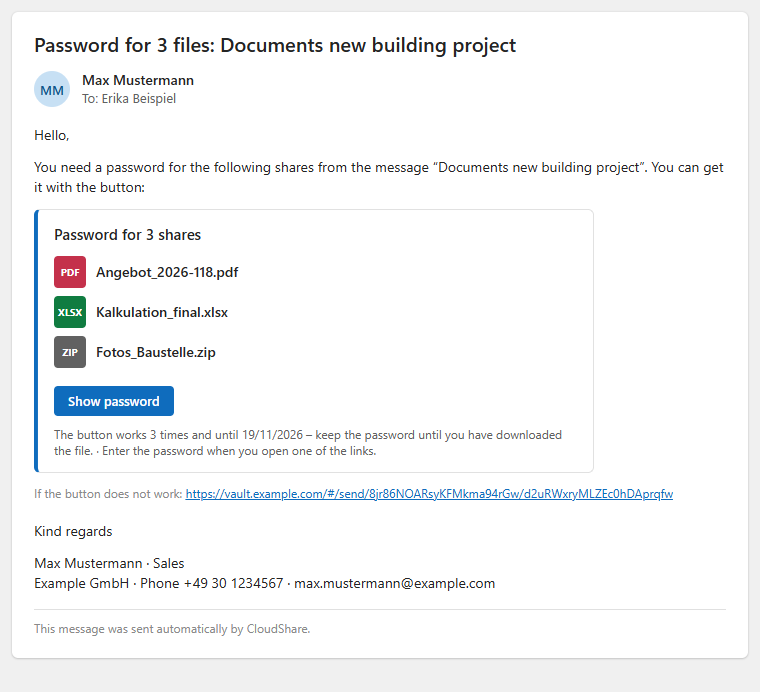
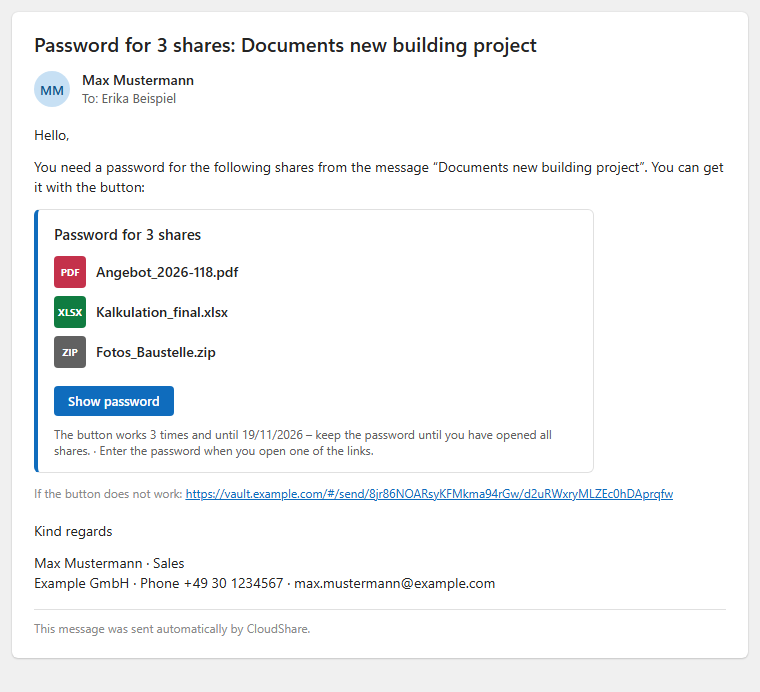
Password mail and card wording; white button text after a click
- Password mail subject counts "Freigaben"/"shares" instead of files; the
  button note fits every kind of share and says "Button".
- Link card names the tracking ID as "Vorgang {id}" / "Case {id}".
- Code mail step 1 says that "Confirm and open" is still to be clicked on the
  page (the link deliberately confirms nothing by itself); help and README too.
- Button labels in the card and in every CloudShare mail get their own white
  span, so Outlook does not turn them purple once visited.

Changed region(s): [[0.2118, 0.0303, 0.7263, 0.091], [0.0605, 0.6373, 0.4842, 0.6676], [0.6355, 0.6069, 0.7566, 0.6373]]

diff --git a/docs/mockups/password-mail.html b/docs/mockups/password-mail.html
@@ -9,10 +9,10 @@
 </head>
 <body>
 <div class="reader">
-  <div class="subject">Password for 3 files: Documents new building project</div>
+  <div class="subject">Password for 3 shares: Documents new building project</div>
   <div class="from"><div class="avatar">MM</div><div class="who"><div class="name">Max Mustermann</div><div class="to">To: Erika Beispiel</div></div></div>
   <div class="body">
-<p style="margin:0 0 12px;font-family:'Segoe UI',-apple-system,Helvetica,Arial,sans-serif;font-size:14px;line-height:20px;color:#242424;">Hello,</p><p style="margin:0 0 12px;font-family:'Segoe UI',-apple-system,Helvetica,Arial,sans-serif;font-size:14px;line-height:20px;color:#242424;">You need a password for the following shares from the message “Documents new building project”. You can get it with the button:</p><table role="presentation" width="560" cellpadding="0" cellspacing="0" border="0" style="width:100%;max-width:560px;border-collapse:separate;margin:4px 0 12px;"><tr><td style="background:#ffffff;border:1px solid #e0e0e0;border-left:4px solid #0f6cbd;border-radius:6px;padding:14px 16px;font-family:'Segoe UI',-apple-system,Helvetica,Arial,sans-serif;color:#242424;"><div style="font-size:15px;line-height:20px;font-weight:600;color:#242424;margin:0 0 8px;">Password for 3 shares</div><table role="presentation" cellpadding="0" cellspacing="0" border="0" style="border-collapse:collapse;"><tr><td width="32" valign="middle" style="width:32px;padding:4px 10px 4px 0;"><div style="width:32px;height:32px;line-height:32px;background:#c4314b;border-radius:4px;color:#ffffff;font-family:'Segoe UI',-apple-system,Helvetica,Arial,sans-serif;font-size:10px;font-weight:700;text-align:center;">PDF</div></td><td valign="middle" style="padding:4px 0;font-family:'Segoe UI',-apple-system,Helvetica,Arial,sans-serif;font-size:14px;line-height:20px;font-weight:600;color:#242424;word-break:break-all;">Angebot_2026-118.pdf</td></tr><tr><td width="32" valign="middle" style="width:32px;padding:4px 10px 4px 0;"><div style="width:32px;height:32px;line-height:32px;background:#107c41;border-radius:4px;color:#ffffff;font-family:'Segoe UI',-apple-system,Helvetica,Arial,sans-serif;font-size:10px;font-weight:700;text-align:center;">XLSX</div></td><td valign="middle" style="padding:4px 0;font-family:'Segoe UI',-apple-system,Helvetica,Arial,sans-serif;font-size:14px;line-height:20px;font-weight:600;color:#242424;word-break:break-all;">Kalkulation_final.xlsx</td></tr><tr><td width="32" valign="middle" style="width:32px;padding:4px 10px 4px 0;"><div style="width:32px;height:32px;line-height:32px;background:#616161;border-radius:4px;color:#ffffff;font-family:'Segoe UI',-apple-system,Helvetica,Arial,sans-serif;font-size:10px;font-weight:700;text-align:center;">ZIP</div></td><td valign="middle" style="padding:4px 0;font-family:'Segoe UI',-apple-system,Helvetica,Arial,sans-serif;font-size:14px;line-height:20px;font-weight:600;color:#242424;word-break:break-all;">Fotos_Baustelle.zip</td></tr></table><div style="margin:14px 0 0;"><table role="presentation" cellpadding="0" cellspacing="0" border="0" style="border-collapse:separate;"><tr><td bgcolor="#0f6cbd" style="background:#0f6cbd;border-radius:4px;mso-padding-alt:6px 14px;"><a href="#" style="display:inline-block;color:#ffffff;font-family:'Segoe UI',-apple-system,Helvetica,Arial,sans-serif;font-size:13px;font-weight:600;line-height:18px;padding:6px 14px;text-decoration:none;white-space:nowrap;">Show password</a></td></tr></table></div><div style="font-size:12px;line-height:16px;color:#616161;margin:10px 0 0;">The button works 3 times and until 19/11/2026 – keep the password until you have downloaded the file. · Enter the password when you open one of the links.</div></td></tr></table><p style="margin:0 0 8px;font-family:'Segoe UI',-apple-system,Helvetica,Arial,sans-serif;font-size:12px;line-height:16px;color:#8a8a8a;">If the button does not work: <a href="#" style="color:#0f6cbd;">https://vault.example.com/#/send/8jr86NOARsyKFMkma94rGw/d2uRWxryMLZEc0hDAprqfw</a></p><div style="margin:20px 0 0;"><p style="margin:0 0 12px;font-family:'Segoe UI',-apple-system,Helvetica,Arial,sans-serif;font-size:14px;line-height:20px;color:#242424;">Kind regards</p><p style="margin:0 0 12px;font-family:'Segoe UI',-apple-system,Helvetica,Arial,sans-serif;font-size:14px;line-height:20px;color:#242424;">Max Mustermann · Sales<br>Example GmbH · Phone +49 30 1234567 · max.mustermann@example.com</p></div><p style="margin:16px 0 0;padding:10px 0 0;border-top:1px solid #e0e0e0;font-family:'Segoe UI',-apple-system,Helvetica,Arial,sans-serif;font-size:12px;line-height:16px;color:#8a8a8a;">This message was sent automatically by CloudShare.</p>
+<p style="margin:0 0 12px;font-family:'Segoe UI',-apple-system,Helvetica,Arial,sans-serif;font-size:14px;line-height:20px;color:#242424;">Hello,</p><p style="margin:0 0 12px;font-family:'Segoe UI',-apple-system,Helvetica,Arial,sans-serif;font-size:14px;line-height:20px;color:#242424;">You need a password for the following shares from the message “Documents new building project”. You can get it with the button:</p><table role="presentation" width="560" cellpadding="0" cellspacing="0" border="0" style="width:100%;max-width:560px;border-collapse:separate;margin:4px 0 12px;"><tr><td style="background:#ffffff;border:1px solid #e0e0e0;border-left:4px solid #0f6cbd;border-radius:6px;padding:14px 16px;font-family:'Segoe UI',-apple-system,Helvetica,Arial,sans-serif;color:#242424;"><div style="font-size:15px;line-height:20px;font-weight:600;color:#242424;margin:0 0 8px;">Password for 3 shares</div><table role="presentation" cellpadding="0" cellspacing="0" border="0" style="border-collapse:collapse;"><tr><td width="32" valign="middle" style="width:32px;padding:4px 10px 4px 0;"><div style="width:32px;height:32px;line-height:32px;background:#c4314b;border-radius:4px;color:#ffffff;font-family:'Segoe UI',-apple-system,Helvetica,Arial,sans-serif;font-size:10px;font-weight:700;text-align:center;">PDF</div></td><td valign="middle" style="padding:4px 0;font-family:'Segoe UI',-apple-system,Helvetica,Arial,sans-serif;font-size:14px;line-height:20px;font-weight:600;color:#242424;word-break:break-all;">Angebot_2026-118.pdf</td></tr><tr><td width="32" valign="middle" style="width:32px;padding:4px 10px 4px 0;"><div style="width:32px;height:32px;line-height:32px;background:#107c41;border-radius:4px;color:#ffffff;font-family:'Segoe UI',-apple-system,Helvetica,Arial,sans-serif;font-size:10px;font-weight:700;text-align:center;">XLSX</div></td><td valign="middle" style="padding:4px 0;font-family:'Segoe UI',-apple-system,Helvetica,Arial,sans-serif;font-size:14px;line-height:20px;font-weight:600;color:#242424;word-break:break-all;">Kalkulation_final.xlsx</td></tr><tr><td width="32" valign="middle" style="width:32px;padding:4px 10px 4px 0;"><div style="width:32px;height:32px;line-height:32px;background:#616161;border-radius:4px;color:#ffffff;font-family:'Segoe UI',-apple-system,Helvetica,Arial,sans-serif;font-size:10px;font-weight:700;text-align:center;">ZIP</div></td><td valign="middle" style="padding:4px 0;font-family:'Segoe UI',-apple-system,Helvetica,Arial,sans-serif;font-size:14px;line-height:20px;font-weight:600;color:#242424;word-break:break-all;">Fotos_Baustelle.zip</td></tr></table><div style="margin:14px 0 0;"><table role="presentation" cellpadding="0" cellspacing="0" border="0" style="border-collapse:separate;"><tr><td bgcolor="#0f6cbd" style="background:#0f6cbd;border-radius:4px;mso-padding-alt:6px 14px;"><a href="#" style="display:inline-block;color:#ffffff;font-family:'Segoe UI',-apple-system,Helvetica,Arial,sans-serif;font-size:13px;font-weight:600;line-height:18px;padding:6px 14px;text-decoration:none;white-space:nowrap;">Show password</a></td></tr></table></div><div style="font-size:12px;line-height:16px;color:#616161;margin:10px 0 0;">The button works 3 times and until 19/11/2026 – keep the password until you have opened all shares. · Enter the password when you open one of the links.</div></td></tr></table><p style="margin:0 0 8px;font-family:'Segoe UI',-apple-system,Helvetica,Arial,sans-serif;font-size:12px;line-height:16px;color:#8a8a8a;">If the button does not work: <a href="#" style="color:#0f6cbd;">https://vault.example.com/#/send/8jr86NOARsyKFMkma94rGw/d2uRWxryMLZEc0hDAprqfw</a></p><div style="margin:20px 0 0;"><p style="margin:0 0 12px;font-family:'Segoe UI',-apple-system,Helvetica,Arial,sans-serif;font-size:14px;line-height:20px;color:#242424;">Kind regards</p><p style="margin:0 0 12px;font-family:'Segoe UI',-apple-system,Helvetica,Arial,sans-serif;font-size:14px;line-height:20px;color:#242424;">Max Mustermann · Sales<br>Example GmbH · Phone +49 30 1234567 · max.mustermann@example.com</p></div><p style="margin:16px 0 0;padding:10px 0 0;border-top:1px solid #e0e0e0;font-family:'Segoe UI',-apple-system,Helvetica,Arial,sans-serif;font-size:12px;line-height:16px;color:#8a8a8a;">This message was sent automatically by CloudShare.</p>
   </div>
 </div>
 </body>

diff --git a/server/test/passwordMail.test.ts b/server/test/passwordMail.test.ts
@@ -100,9 +100,9 @@ describe("common layout of all automatic mails", () => {
 describe("password mail – limits and the mail after the confirmation", () => {
   it("says in a sentence how often and how long the button works", () => {
     const html = passwordMailHtml({ ...base, fileNames: ["a.pdf"], maxAccessCount: 3, expiresOn: "25.11.2026" });
-    expect(html).toContain("Der Knopf funktioniert 3-mal und bis 25.11.2026 – notieren Sie sich das Kennwort");
+    expect(html).toContain("Der Button funktioniert 3-mal und bis 25.11.2026 – notieren Sie sich das Kennwort, bis Sie alle Freigaben geöffnet haben.");
     expect(passwordMailHtml({ ...base, fileNames: ["a.pdf"], maxAccessCount: 1, expiresOn: "25.11.2026" }))
-      .toContain("Der Knopf funktioniert nur einmal und bis 25.11.2026");
+      .toContain("Der Button funktioniert nur einmal und bis 25.11.2026");
   });
 
   it("right after the confirmation: two numbered steps in the card, each with its button and plain link", () => {
@@ -122,7 +122,7 @@ describe("password mail – limits and the mail after the confirmation", () => {
     expect(html.match(/https:\/\/vault\.example\.test\/#\/send\/abc\/key/g)).toHaveLength(3); // href of button, href and text of the link
     expect(html.match(/https:\/\/cloudshare\.example\.test\/r\/s\/tok/g)).toHaveLength(3);
     expect(html.indexOf("https://cloudshare.example.test/r/s/tok")).toBeGreaterThan(download);
-    expect(html).toContain(">Zum Download</a>");
+    expect(html).toContain(">Zum Download</span></a>");
     expect(html).toContain("Kennwort-Link: 3-mal, bis 25.11.2026 · Vorgang 20261118-1932-DHLB");
     expect(html).not.toContain("Falls der Button nicht funktioniert");
     expect(html).not.toContain("<ol");

diff --git a/server/src/mailLayout.ts b/server/src/mailLayout.ts
@@ -122,7 +122,7 @@ function buttonLink(button: { label: string; url: string }): string {
     `<table role="presentation" cellpadding="0" cellspacing="0" border="0" style="border-collapse:separate;">` +
     `<tr><td bgcolor="${BRAND}" style="background:${BRAND};border-radius:4px;mso-padding-alt:6px 14px;">` +
     `<a href="${escapeHtml(button.url)}" style="display:inline-block;color:#ffffff;font-family:${FONT};font-size:13px;` +
-    `font-weight:600;line-height:18px;padding:6px 14px;text-decoration:none;white-space:nowrap;">${escapeHtml(button.label)}</a>` +
+    `font-weight:600;line-height:18px;padding:6px 14px;text-decoration:none;white-space:nowrap;"><span style="color:#ffffff;">${escapeHtml(button.label)}</span></a>` +
     `</td></tr></table>`
   );
 }

diff --git a/addin/e2e/taskpane.e2e.ts b/addin/e2e/taskpane.e2e.ts
@@ -1471,7 +1471,7 @@ test("Zustellnachweis: only for files; ticked, it goes with the upload and the c
   expect(body).toMatchObject({ proof: true, client: { host: expect.any(String) } });
   const card = (await officeLog(page)).inserted[0].data as string;
   expect(card).toContain("https://cloudshare.example.com/r/s/u"); // the gateway, not the Nextcloud link
-  expect(card).toContain("Zustellnachweis 20261117-1146-7Q2F");
+  expect(card).toContain("Vorgang 20261117-1146-7Q2F");
   // The password comes after the confirmation – no "separate message" with the link mail.
   expect(card).toContain("Das Kennwort erhalten Sie, nachdem Sie Ihre E-Mail-Adresse bestätigt haben.");
   expect(card).not.toContain("separaten Nachricht");

diff --git a/addin/src/taskpane/mailCard.ts b/addin/src/taskpane/mailCard.ts
@@ -55,7 +55,7 @@ function button(url: string, text: string): string {
     `<table role="presentation" cellpadding="0" cellspacing="0" border="0" style="border-collapse:separate;">` +
     `<tr><td bgcolor="${BRAND}" style="background:${BRAND};border-radius:4px;mso-padding-alt:6px 14px;">` +
     `<a href="${escapeHtml(url)}" style="display:inline-block;color:#ffffff;font-family:${FONT};font-size:13px;` +
-    `font-weight:600;line-height:18px;padding:6px 14px;text-decoration:none;white-space:nowrap;">${escapeHtml(text)}</a>` +
+    `font-weight:600;line-height:18px;padding:6px 14px;text-decoration:none;white-space:nowrap;"><span style="color:#ffffff;">${escapeHtml(text)}</span></a>` +
     `</td></tr></table>`
   );
 }

diff --git a/server/test/jobs.test.ts b/server/test/jobs.test.ts
@@ -108,7 +108,7 @@ describe("password jobs", () => {
 
     expect(sendMail).toHaveBeenCalledOnce();
     const [, , subject, html] = sendMail.mock.calls[0];
-    expect(subject).toBe("Kennwort für 2 Dateien: Unterlagen");
+    expect(subject).toBe("Kennwort für 2 Freigaben: Unterlagen");
     expect(html).toContain("a.pdf");
     expect(html).toContain("b.png");
     expect(getJob(id)?.fileNames).toEqual(["a.pdf", "b.png"]);

diff --git a/README.md b/README.md
@@ -463,7 +463,7 @@ default, offered for "Files" only (not for a confidential message or an upload l
   within the first 24 hours), the sender gets one mail – the recipients are not written to. On by default, each user
   can switch it off under "Settings".
 - **Code page and code mail**: the page names the sender and the file, so recipients know it belongs to the mail they
-  got. The code mail has a button "Confirm address" that fills in the code – one click confirms; opening the link
+  got. The code mail has a button "Confirm address" that fills in the code – one click on "Confirm and open" confirms; opening the link
   alone confirms nothing, so mail scanners that follow links do no harm. Phones offer the code from the mail; spaces
   and hyphens in the code do not matter.
 - **One mail, one kind**: a mail with a proof of delivery takes only files with a proof – no confidential message, no
